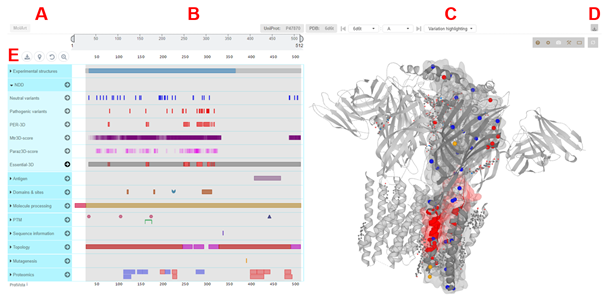
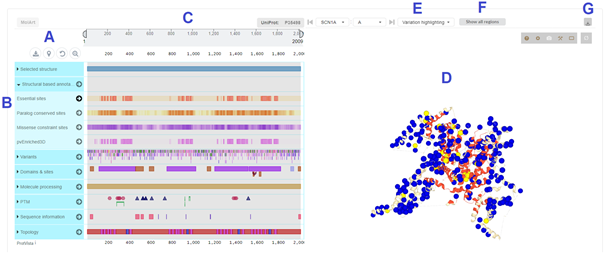
updated docs

diff --git a/src/documentation.html b/src/documentation.html
@@ -25,16 +25,22 @@
         <div class="col-xl-9 mx-auto">
             <h2>Summary</h2>
             <p>
-                Neurodevelopmental disorders (NDDs) are a heterogeneous group of conditions involving various forms of disruption to brain development. Over hundreds of genes have been found to be associated with NDDs thus far. However, NDDs are complex and mutations in NDD associated genes are not straightforward to conceptualize at the molecular level, for which three-dimensional (3D) structures of proteins provide an informative mean.
+                Neurodevelopmental disorders (NDDs) are a heterogeneous group of conditions involving various forms of disruption to brain development. Several hundreds of genes have been found to be associated with NDDs thus far. However, NDDs are complex and mutations in NDD associated genes are not straightforward to conceptualize at the molecular level, for which three-dimensional (3D) structures of proteins provide an informative mean.
             </p>
             <p>
-                Here, we present the ES-NDD. The tool provides access to the aggregation of ~1,200 experimentally and computationally modeled 3D monomeric structures as well as multimeric protein complexes and their characterization using a consensus approach to identity Essential3D sites are conserved across human paralogs. With ES-NDD a user is able to interactively explore Essential3D sites, that are paralog conserved, population constraint and enriched for pathogenic variants in the 3D structures, in the context of 41,939 population variants aggregated from gnomAD, 6,343 pathogenic (likely-pathogenic) variants from ClinVar and HGMD as well as functional and domain annotations from Uniprot.
+                We develop a consensus approach by overlaying evolutionary and population based genomic scores to identify 3D essential sites (Essential3D) in protein structures. We identify and characterize Essential3D sites in experimental and predicted structures for 242 NDD proteins on domain.
+            </p>
+            <p>
+                Here, we present the ES-NDD browser.The tool provides access to the aggregation of experimentally and predicted 3D monomeric structures as well as multimeric protein complexes for 242 NDD associated genes and their characterization using a consensus approach to identity Essential3D sites by overlaying evolutionary and population based genomic scores. With ES-NDD a user is able to interactively explore Essential3D sites, that are paralog conserved, population constraint and enriched for pathogenic variants in the 3D structures. These sites can be visualized alongisde of 87,028 population variants aggregated from gnomAD 9,241 pathogenic (likely-pathogenic) variants from ClinVar and HGMD as well as variants collected across the currently largest autism, developmental disorders, and epilepsies exome sequencing studies including >360,000 NDD patients and population controls.
             </p>
             <p>For details please refer to the associated <a href="#">publication</a>.</p>
             <h2 class="mt-4">How to use the Essential3D Viewer</h2>
             <img src="img/docs1.png" class="img-fluid m-5">
             <ol>
                 <li>
+                    (<span class="docs-letter">A</span>) A user selects the gene of interest and (<span class="docs-letter">B</span>) selects one of the available structure types 
+                    (monomeric-PDB, multimeric-PDB or AlphaFold predicted structures). (<span class="docs-letter">C</span>) In case a monomeric-PDB or multimeric-PDB structure 
+                    was selected a user can then in addition choose one of the available structures from the protein data bank (PDB). Once the desired structure is chosen a click on the “show” button will forward the user to the interactive interface of the selected structure. 
                     A) A user selects the gene of interest, (<span class="docs-letter">B</span>) selects one of the available structure types and (<span class="docs-letter">C</span>)
                     decides which protein chain (for multimeric-PDB set) of the protein structure will be chosen.
                 </li>
@@ -47,10 +53,16 @@
                     3D protein structure together with several functional and domain annotations from Uniprot.
                 </li>
                 <li>
-                    To access all annotations on the protein structure the corresponding Pymol session (<span class="docs-letter">D</span>)
-                    can be downloaded for manual inspection. Alternatively, the annotations for the gene can be
-                    downloaded as table (<span class="docs-letter">E</span>). Complete access to all Essential3D annotations as well as individual 3D-scores
-                    for all genes and datasets are available in github .
+                    The interface shows the linear protein sequence (<span class="docs-letter">C</span>) and protein structure (<span class="docs-letter">D</span>) of the selected protein. 
+                    The annotation bar on the left (<span class="docs-letter">A</span>) enables a user to display the structure-based annotations
+                     including Essential3D sites (<span class="docs-letter">B</span>) on both, the linear protein sequence and the protein structure.
+                      In addition, many protein specific information such as domains,
+                       posttranslational amino acid modifications, or the topology can be visualized. 
+                       Using the “variation highlighting” button (<span class="docs-letter">E</span>) a user can map missense variants from gnomAD, 
+                       pathogenic variants from ClinVar and HGMD as well as other variants obtained from autism, developmental disorders, 
+                       and epilepsies exome sequencing studies on the 3D protein structure. (<span class="docs-letter">F</span>) In case a structure predicted 
+                       by AlphaFold is chosen, the shown residues can be limited to regions with a good prediction quality (high or confident
+                        model confidence, for details see https://alphafold.ebi.ac.uk/). 
                 </li>
             </ol>
         </div>
